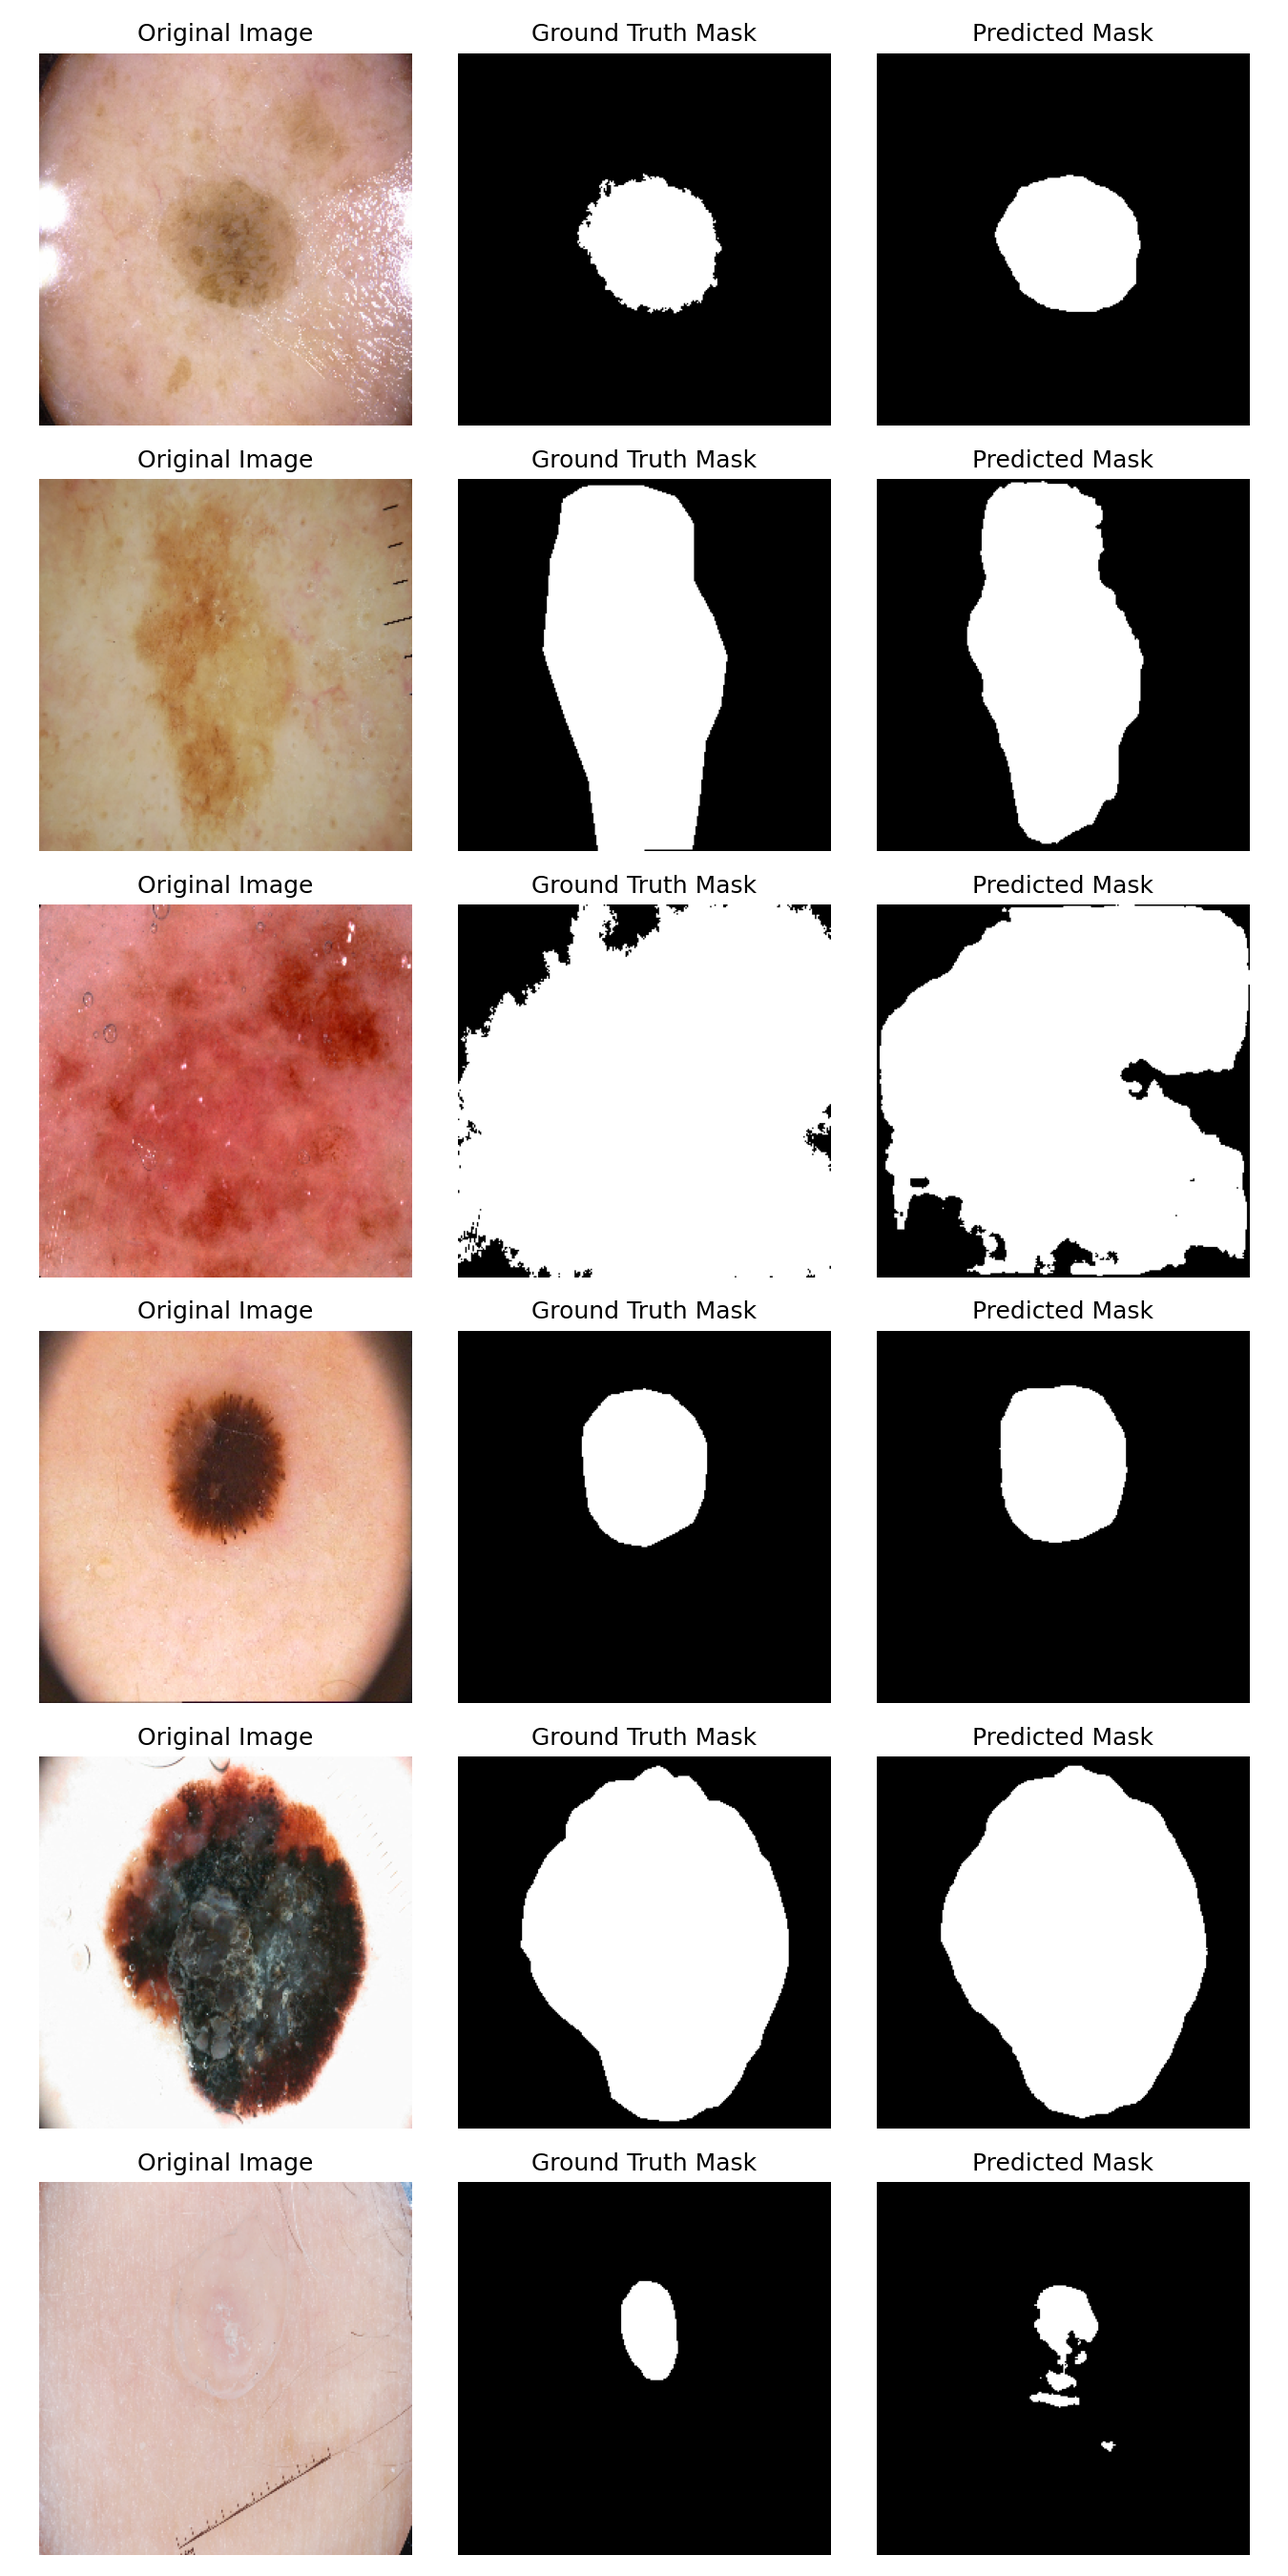
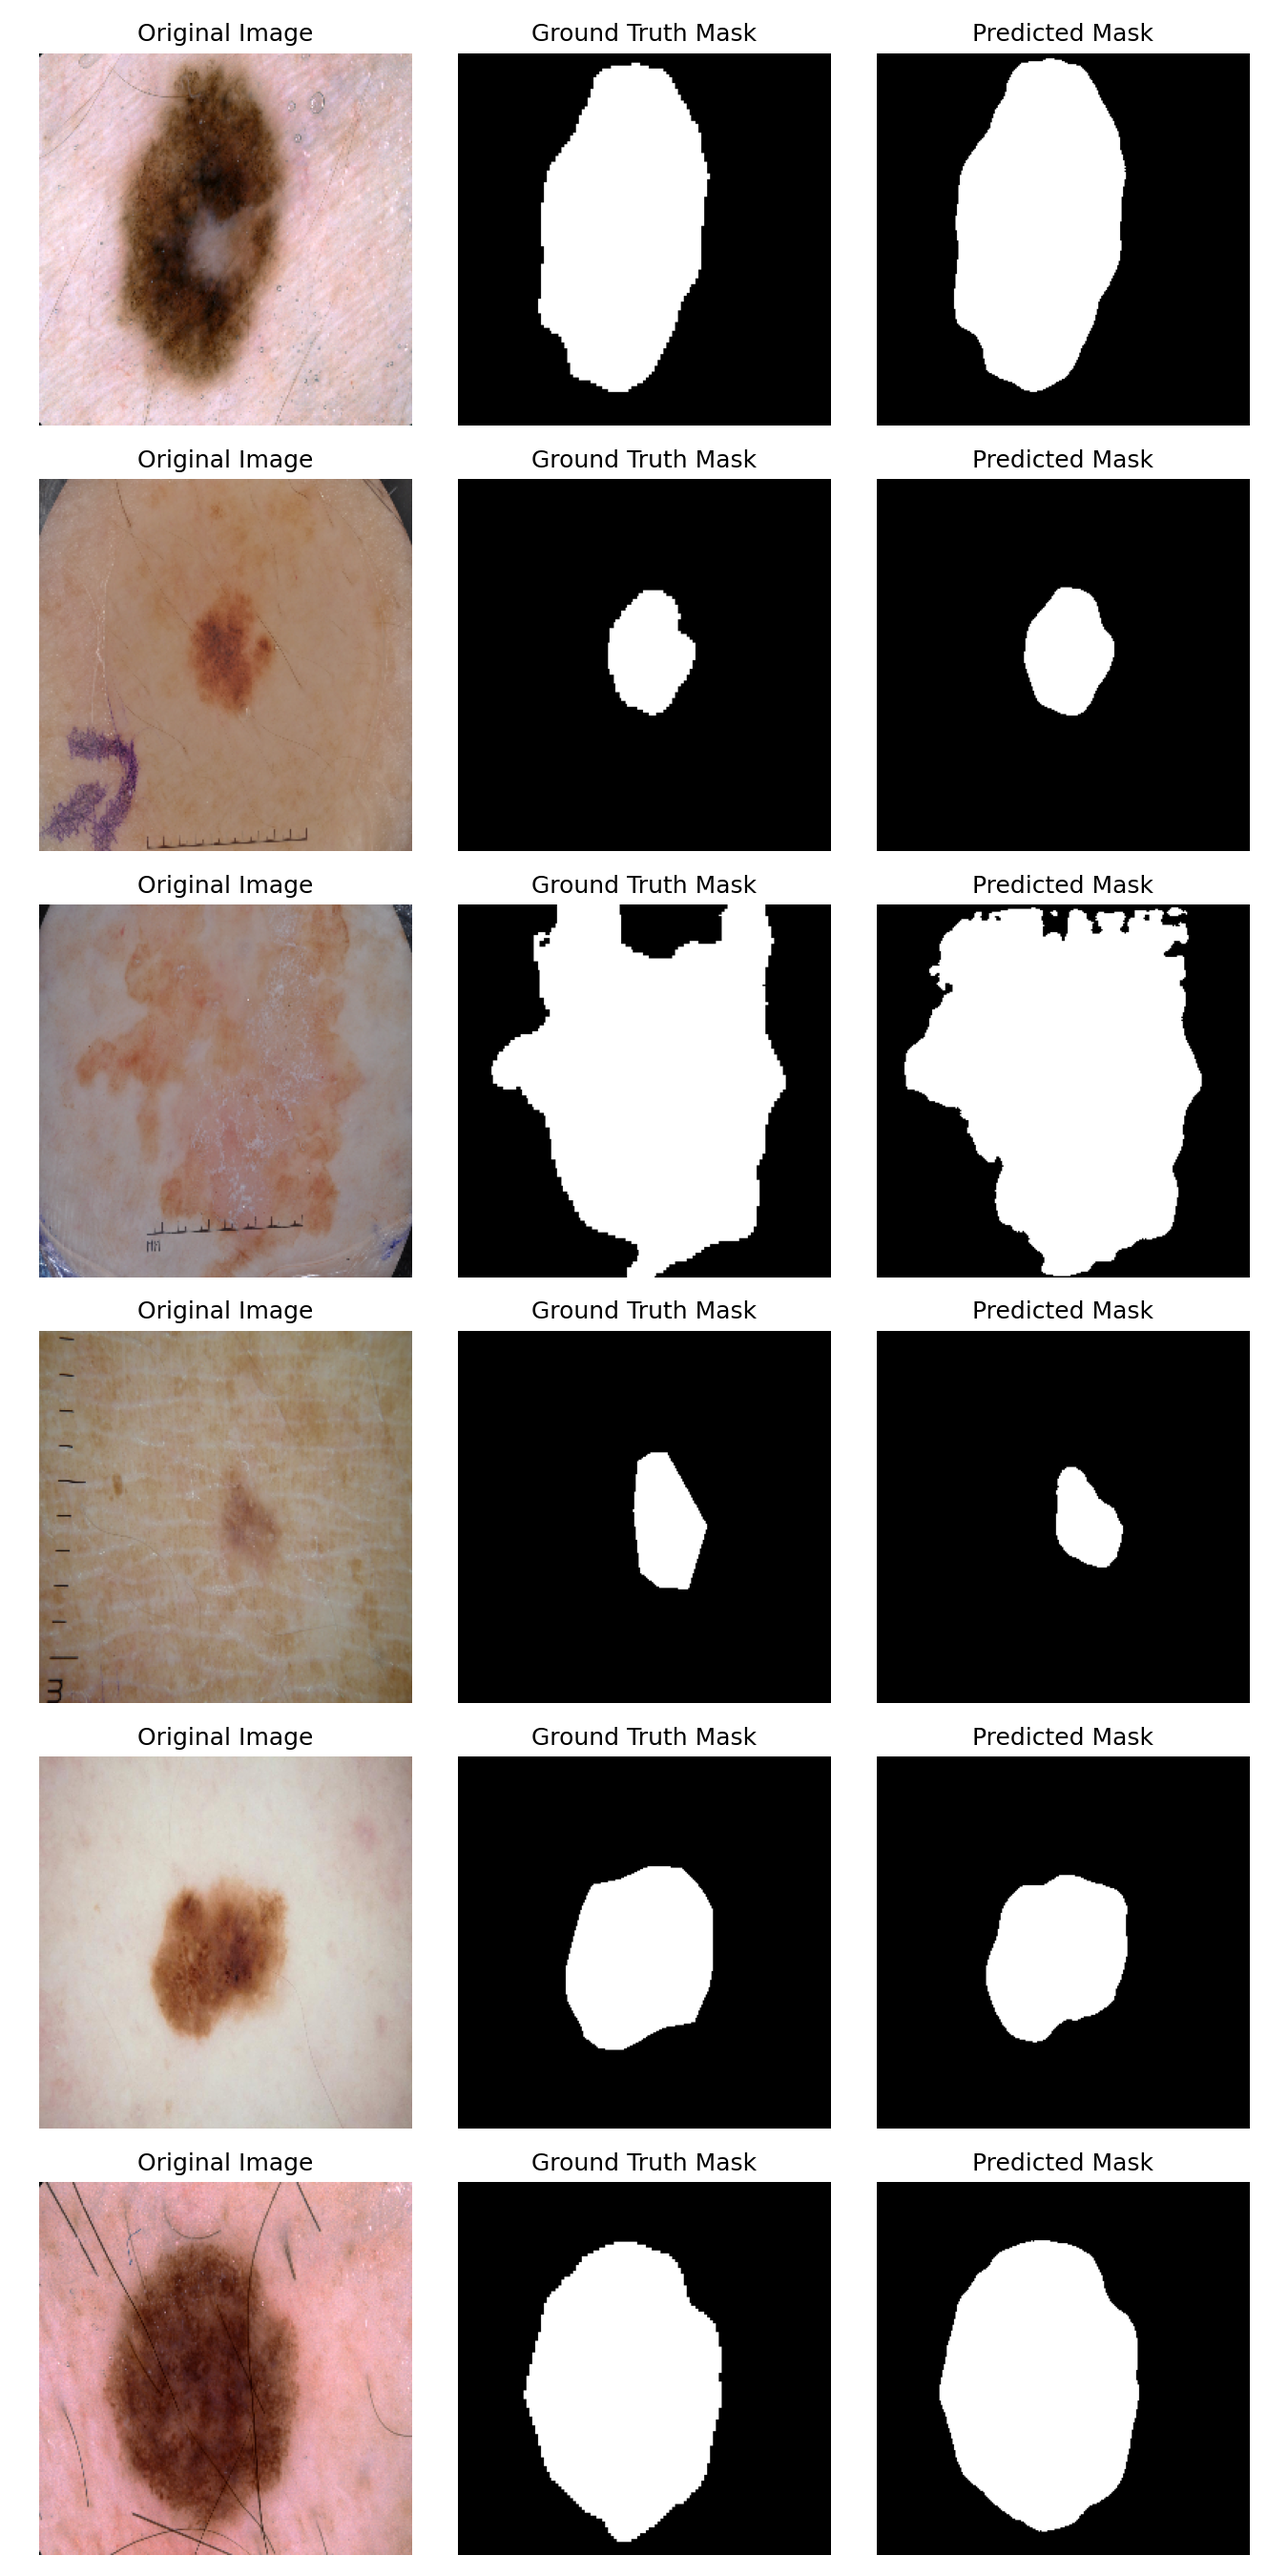
Run 2 retrain results; correct Part 5 conclusion (focal vs weighted CE not distinguishable across runs)

diff --git a/PROGRESS.md b/PROGRESS.md
@@ -1,5 +1,25 @@
 # DermaAI - Project Progress Tracker
 
+## READ FIRST - CORRECTION TO PART 5 (supersedes conflicting statements below)
+Part 5 was first written up from a single training run, which claimed Focal Loss was the "clear winner" and made efficientnet_b0_focal the reference model. A full retrain (after a Kaggle session reset, no fixed random seeds) gave different numbers. Test set, EfficientNet-B0:
+
+| loss | run | accuracy | macro_f1 | mel recall | df recall |
+|---|---|---|---|---|---|
+| unweighted CE | 1 | 0.862 | 0.746 | 0.614 | 0.333 |
+| unweighted CE | 2 | 0.866 | 0.746 | 0.564 | 0.476 |
+| weighted CE | 1 | 0.817 | 0.712 | 0.723 | 0.524 |
+| weighted CE | 2 | 0.826 | 0.777 | 0.842 | 0.714 |
+| focal | 1 | 0.818 | 0.724 | 0.743 | 0.714 |
+| focal | 2 | 0.806 | 0.688 | 0.792 | 0.524 |
+
+- ROBUST (both runs): weighted CE and focal loss raise melanoma recall (~0.56-0.61 -> ~0.72-0.84) and df recall vs unweighted CE, at the cost of accuracy (~0.86 -> ~0.81-0.83).
+- NOT ESTABLISHED: that focal beats weighted CE. The ordering flipped between runs. df has only 21 test images (1 image = ~5 points of recall); mel has 101.
+- Part 4 claim "EfficientNet-B0 wins every metric" is too strong: in run 2 ResNet50 accuracy (0.867) ties EfficientNet-B0 (0.866); EfficientNet-B0 still leads macro-F1, precision, AUC.
+- PROVISIONAL reference model for Part 6+: efficientnet_b0_weighted_ce (best or tied on average). Revisit after a multi-seed comparison.
+- Run 1 results: reports/classification/imbalance_experiments/. Run 2 results: reports/classification/all_experiments/ (unweighted checkpoints are named *_ce_best.pth).
+- Checkpoints are NOT in git. Backup: all_checkpoints_backup.zip (~250 MB), downloaded manually from the Kaggle Output panel.
+
+
 **Purpose of this file:** paste this entire file into a new Claude conversation to resume work instantly, without needing to re-explain anything.
 
 **Repo:** https://github.com/Kanak-0609/Derma-AI
